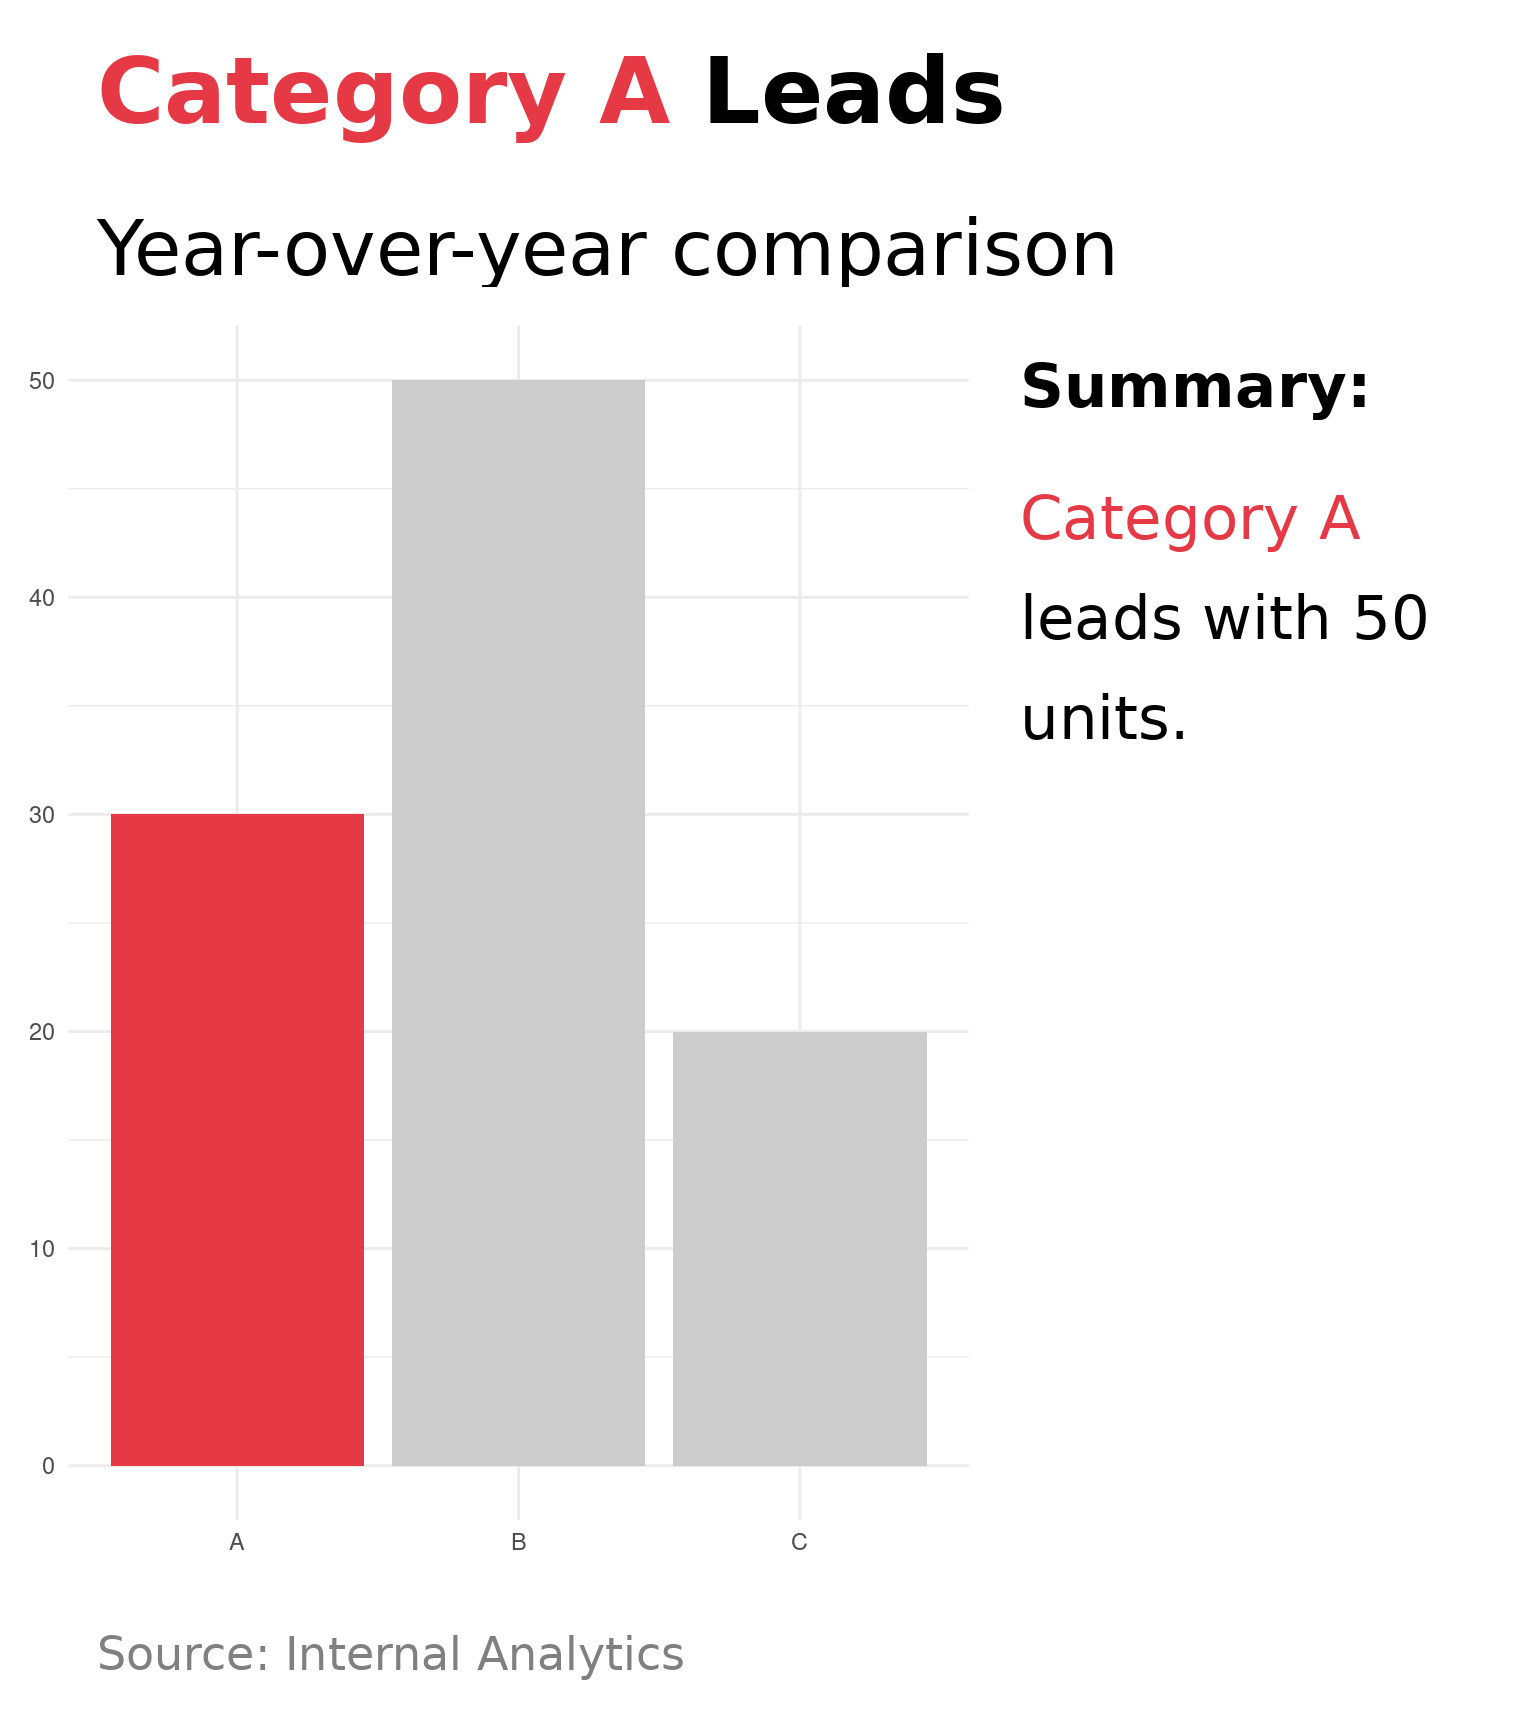
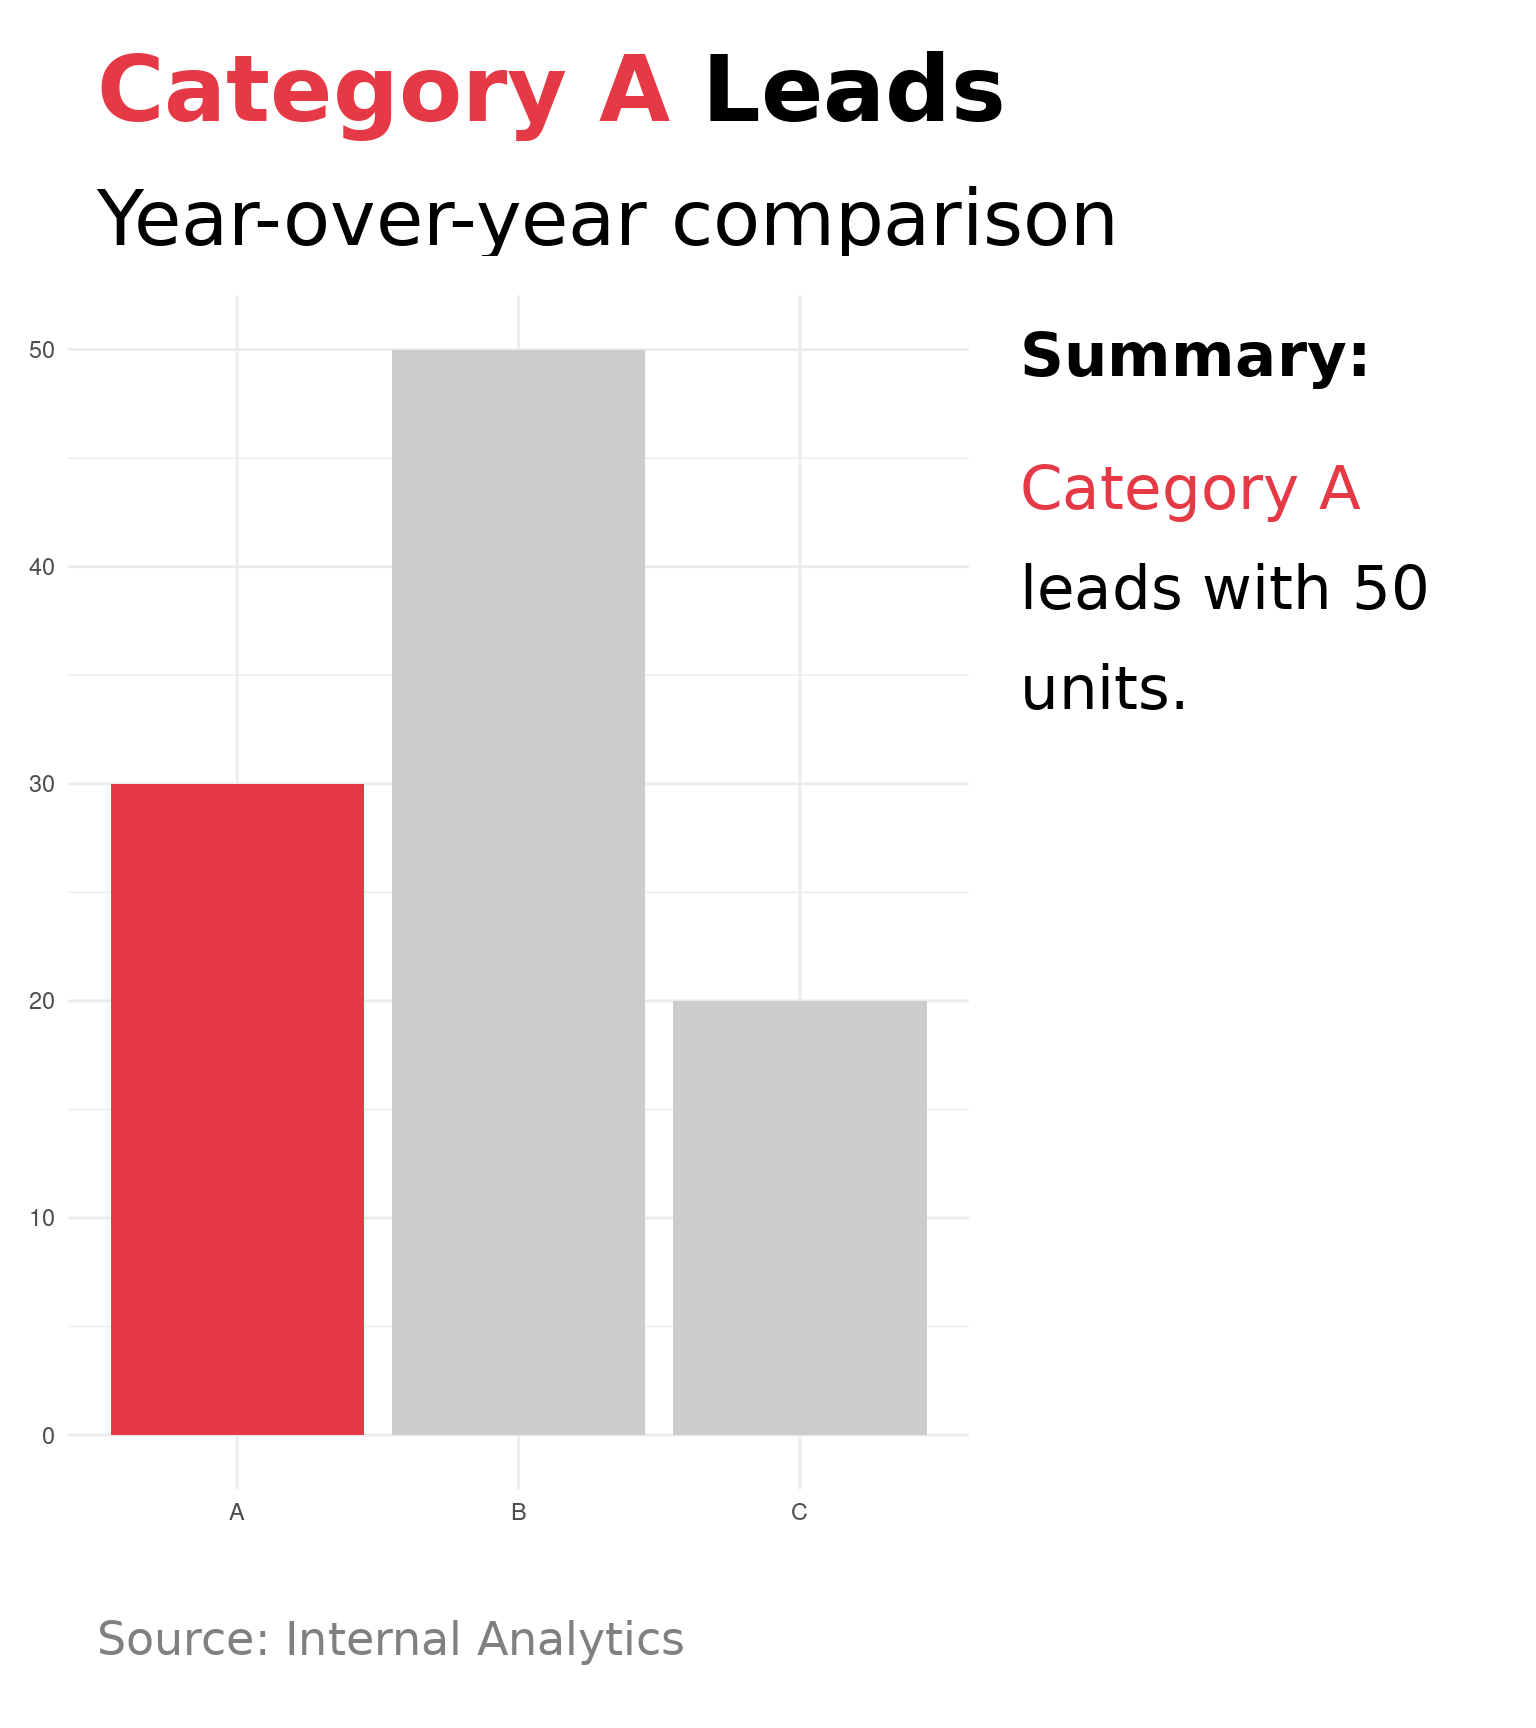
Rebuild docs

diff --git a/vignettes/articles/storytelling.html b/vignettes/articles/storytelling.html
@@ -526,7 +526,7 @@ pre > code.sourceCode > span > a:first-child::before { text-decoration: underlin
 <span id="cb7-11"><a href="#cb7-11" aria-hidden="true" tabindex="-1"></a><span class="fu">subtitle_block</span>(<span class="st">"Year-over-year comparison"</span>, <span class="at">subtitle_size =</span> <span class="dv">10</span>) <span class="sc">/</span></span>
 <span id="cb7-12"><a href="#cb7-12" aria-hidden="true" tabindex="-1"></a>content <span class="sc">/</span></span>
 <span id="cb7-13"><a href="#cb7-13" aria-hidden="true" tabindex="-1"></a><span class="fu">caption_block</span>(<span class="st">"Source: Internal Analytics"</span>) <span class="sc">+</span></span>
-<span id="cb7-14"><a href="#cb7-14" aria-hidden="true" tabindex="-1"></a>    <span class="fu">plot_layout</span>(<span class="at">heights =</span> <span class="fu">c</span>(<span class="fl">0.10</span>, <span class="fl">0.06</span>, <span class="fl">0.78</span>, <span class="fl">0.06</span>))</span></code></pre></div><button title="Copy to Clipboard" class="code-copy-button"><i class="bi"></i></button></div>
+<span id="cb7-14"><a href="#cb7-14" aria-hidden="true" tabindex="-1"></a>    <span class="fu">plot_layout</span>(<span class="at">heights =</span> <span class="fu">c</span>(<span class="fl">0.08</span>, <span class="fl">0.06</span>, <span class="fl">0.78</span>, <span class="fl">0.08</span>))</span></code></pre></div><button title="Copy to Clipboard" class="code-copy-button"><i class="bi"></i></button></div>
 <div class="cell-output-display">
 <div>
 <figure class="figure">
